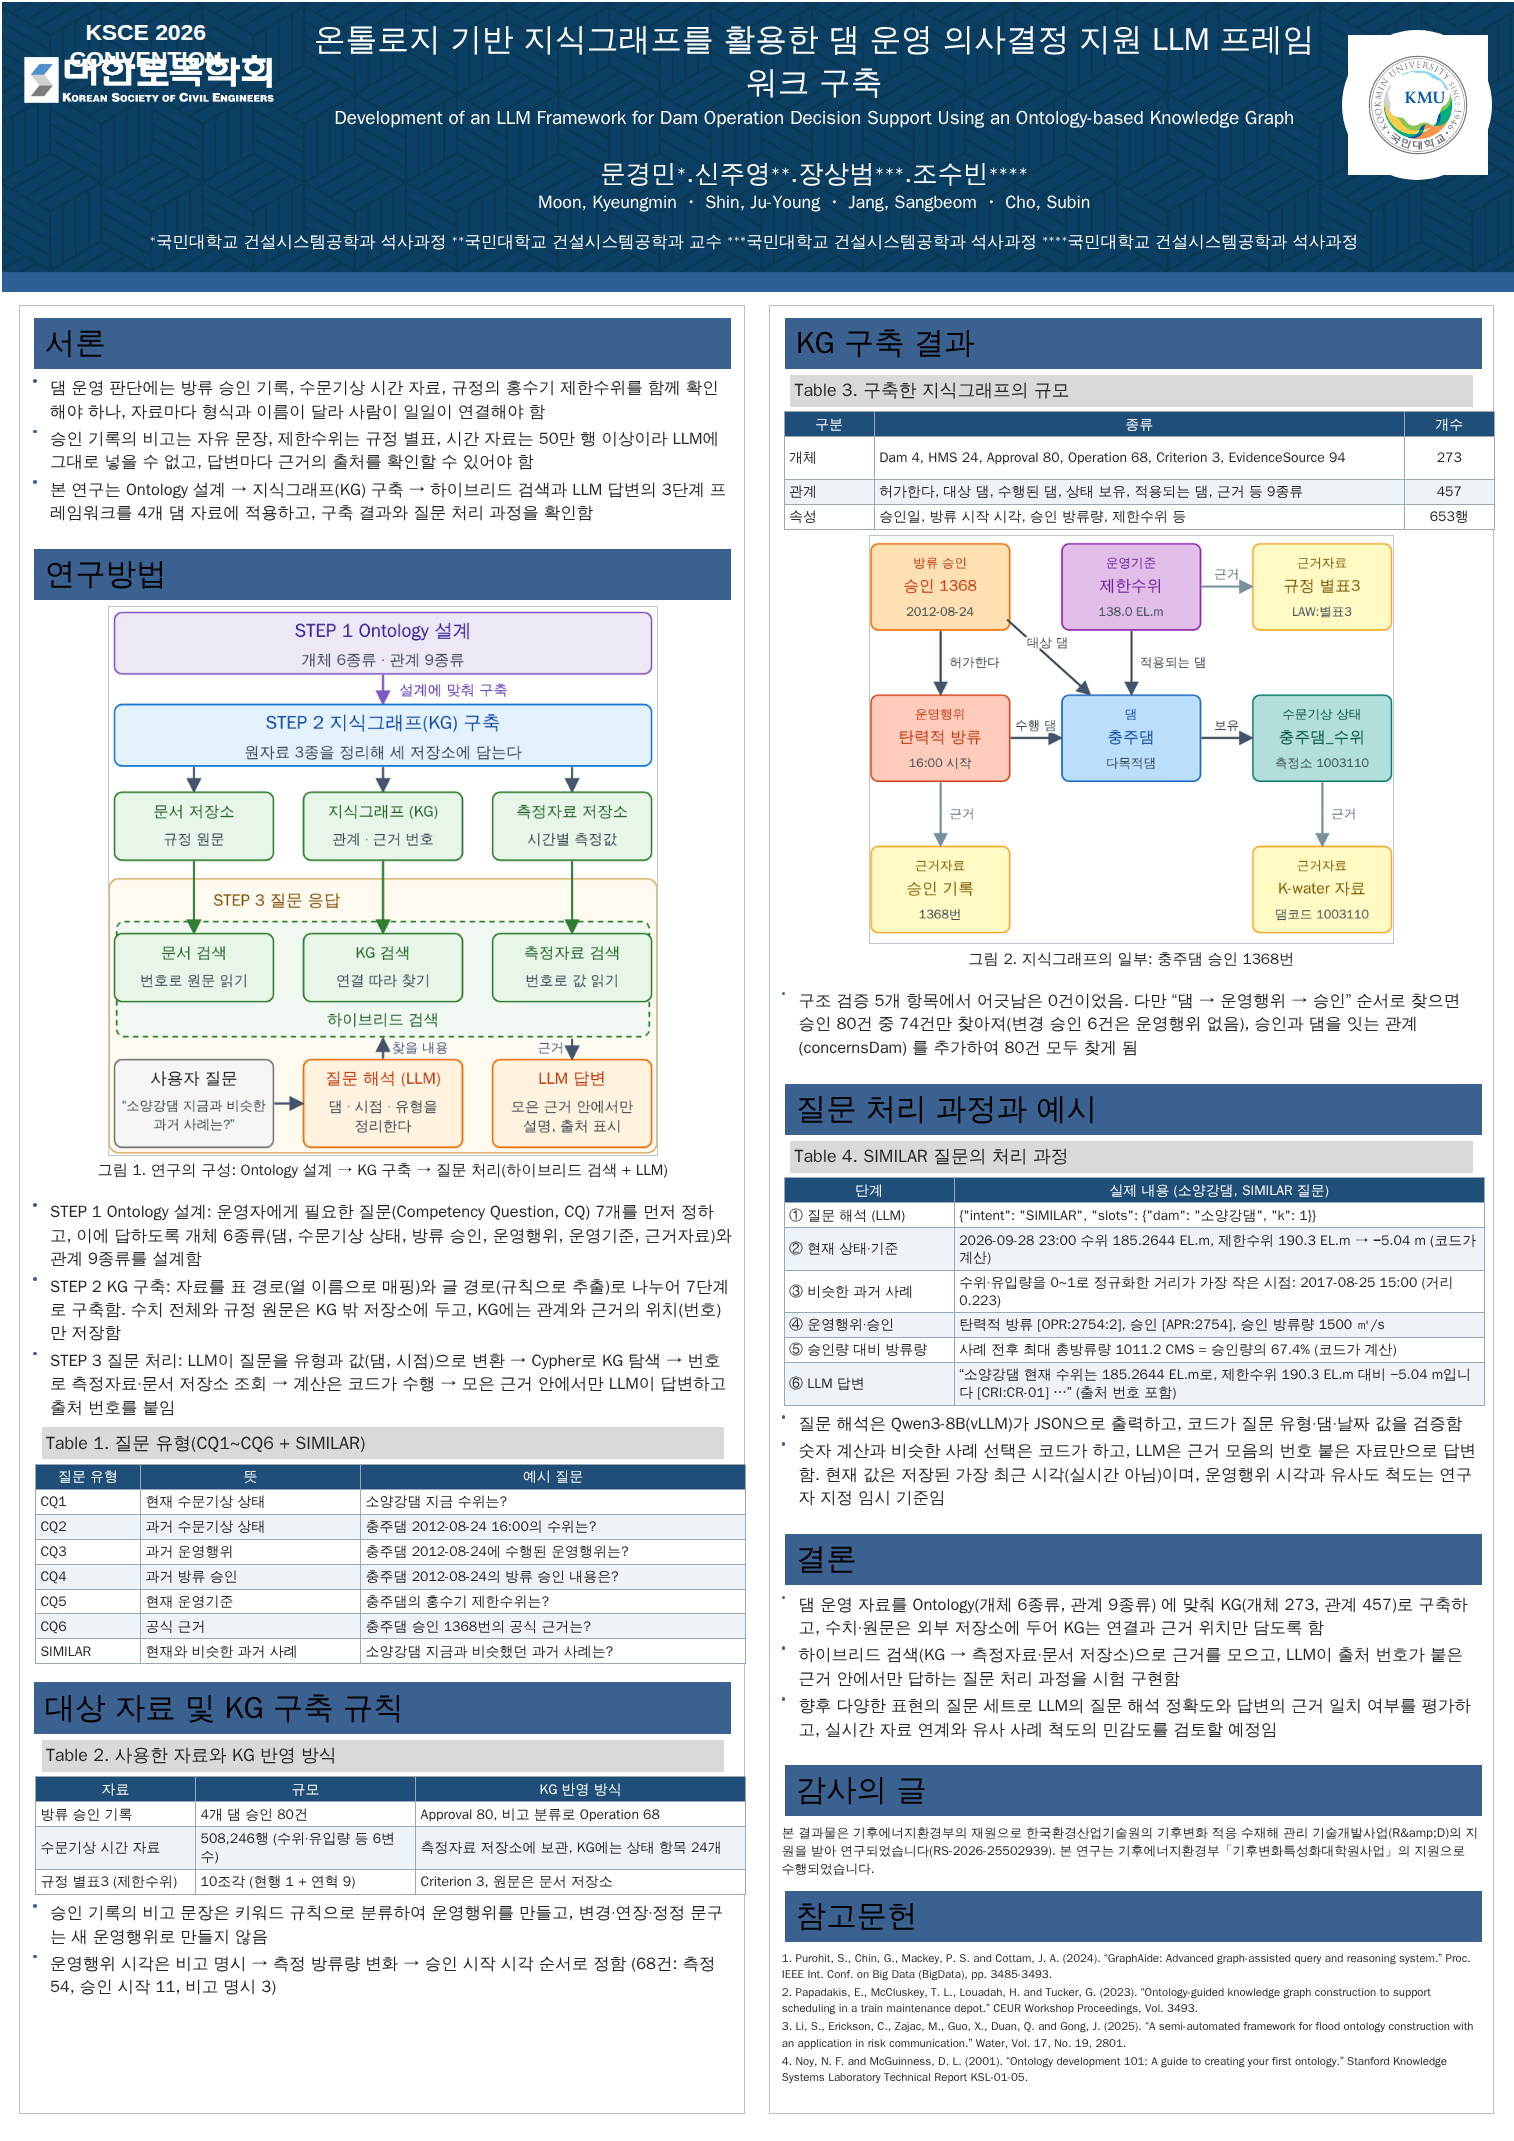
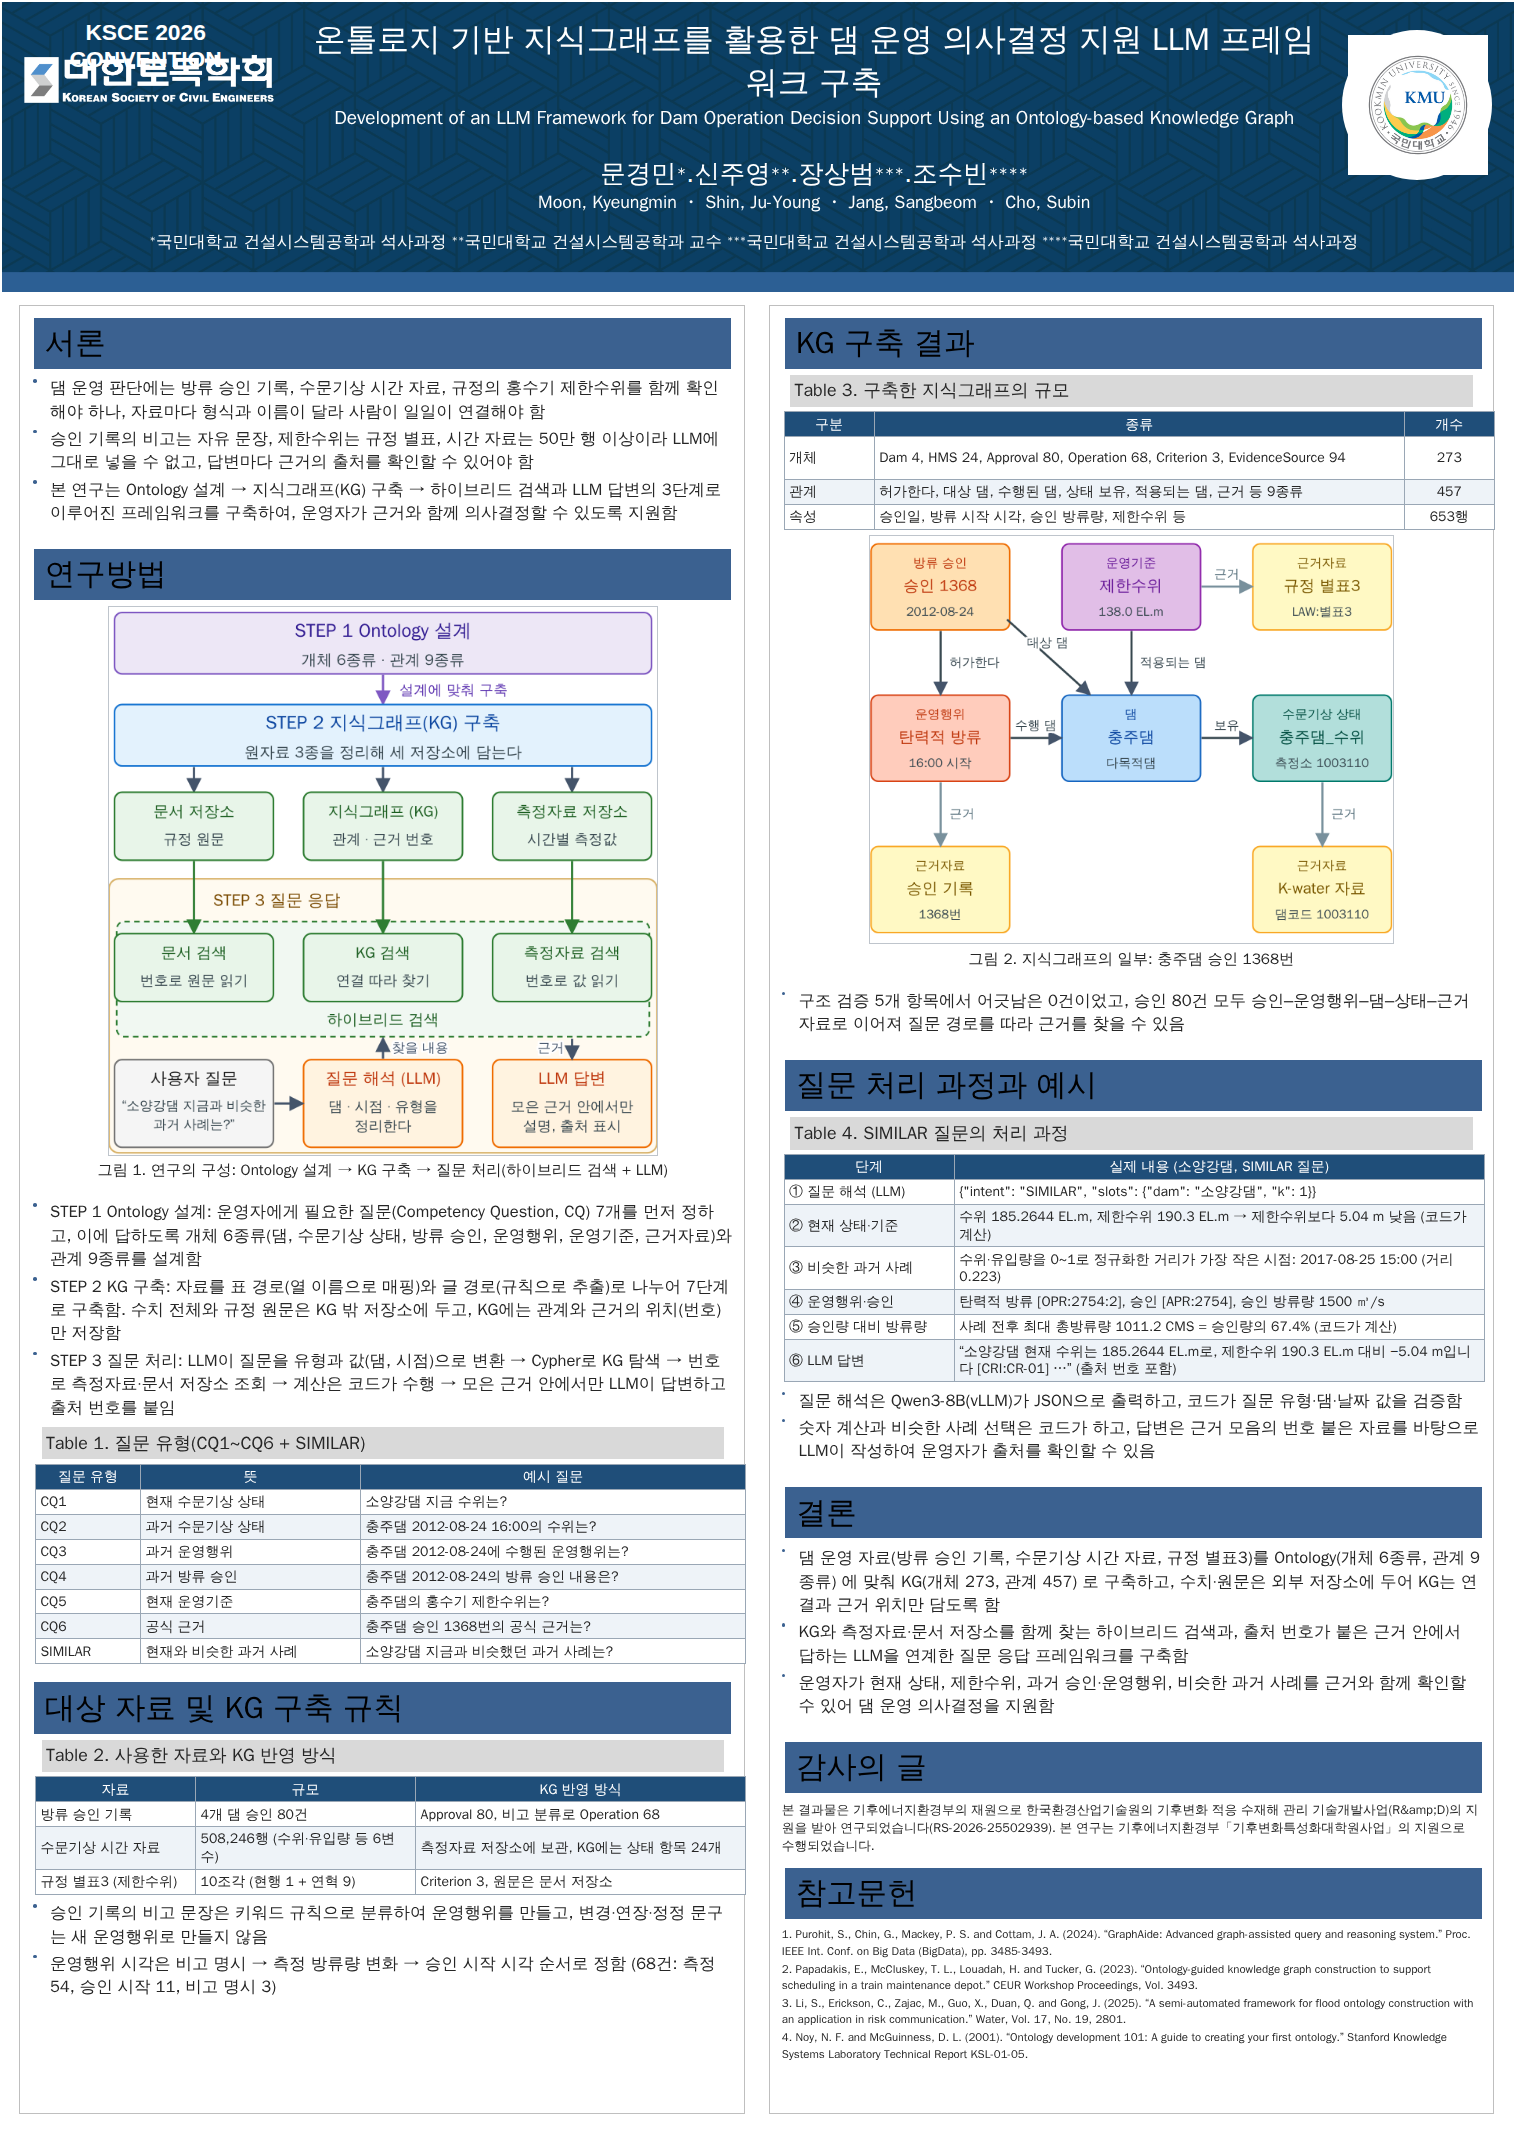
포스터: 한계·임시 기준 표현을 빼고 프레임워크 구축과 의사결정 지원 중심으로 수정
Claude-Session: https://claude.ai/code/session_015aebDX6SyyHMBBEAC3tkZT

Changed region(s): [[0.4967, 0.4624, 0.9934, 0.9865], [0.031, 0.2158, 0.4036, 0.2466]]

diff --git a/dam_pilot_data/scripts/build_poster.py b/dam_pilot_data/scripts/build_poster.py
@@ -168,7 +168,7 @@ AFFIL = [('*', '국민대학교 건설시스템공학과 석사과정'), ('**', 
 INTRO = [
     '댐 운영 판단에는 **방류 승인 기록**, **수문기상 시간 자료**, **규정의 홍수기 제한수위**를 함께 확인해야 하나, 자료마다 형식과 이름이 달라 사람이 일일이 연결해야 함',
     '승인 기록의 비고는 자유 문장, 제한수위는 규정 별표, 시간 자료는 50만 행 이상이라 **LLM에 그대로 넣을 수 없고**, 답변마다 **근거의 출처**를 확인할 수 있어야 함',
-    '본 연구는 **Ontology 설계 → 지식그래프(KG) 구축 → 하이브리드 검색과 LLM 답변**의 3단계 프레임워크를 4개 댐 자료에 적용하고, 구축 결과와 질문 처리 과정을 확인함',
+    '본 연구는 **Ontology 설계 → 지식그래프(KG) 구축 → 하이브리드 검색과 LLM 답변**의 3단계로 이루어진 프레임워크를 구축하여, 운영자가 **근거와 함께 의사결정**할 수 있도록 지원함',
 ]
 METHOD = [
     '**STEP 1 Ontology 설계**: 운영자에게 필요한 질문(Competency Question, CQ) 7개를 먼저 정하고, 이에 답하도록 **개체 6종류**(댐, 수문기상 상태, 방류 승인, 운영행위, 운영기준, 근거자료)와 **관계 9종류**를 설계함',
@@ -192,7 +192,7 @@ KG_ROWS = [
     ['속성', '승인일, 방류 시작 시각, 승인 방류량, 제한수위 등', '653행'],
 ]
 KG_BUL = [
-    '구조 검증 **5개 항목**에서 어긋남은 0건이었음. 다만 “댐 → 운영행위 → 승인” 순서로 찾으면 승인 80건 중 74건만 찾아져(변경 승인 6건은 운영행위 없음), **승인과 댐을 잇는 관계(concernsDam)** 를 추가하여 **80건 모두** 찾게 됨',
+    '구조 검증 **5개 항목**에서 어긋남은 0건이었고, 승인 80건 모두 **승인–운영행위–댐–상태–근거자료**로 이어져 질문 경로를 따라 근거를 찾을 수 있음',
 ]
 QT_ROWS = [
     ['질문 유형', '뜻', '예시 질문'],
@@ -207,7 +207,7 @@ QT_ROWS = [
 QA_ROWS = [
     ['단계', '실제 내용 (소양강댐, SIMILAR 질문)'],
     ['① 질문 해석 (LLM)', '{"intent": "SIMILAR", "slots": {"dam": "소양강댐", "k": 1}}'],
-    ['② 현재 상태·기준', '2026-09-28 23:00 수위 185.2644 EL.m, 제한수위 190.3 EL.m → **−5.04 m** (코드가 계산)'],
+    ['② 현재 상태·기준', '수위 185.2644 EL.m, 제한수위 190.3 EL.m → 제한수위보다 **5.04 m 낮음** (코드가 계산)'],
     ['③ 비슷한 과거 사례', '수위·유입량을 0~1로 정규화한 거리가 가장 작은 시점: **2017-08-25 15:00 (거리 0.223)**'],
     ['④ 운영행위·승인', '탄력적 방류 [OPR:2754:2], 승인 [APR:2754], 승인 방류량 1500 ㎥/s'],
     ['⑤ 승인량 대비 방류량', '사례 전후 최대 총방류량 1011.2 CMS = **승인량의 67.4%** (코드가 계산)'],
@@ -215,12 +215,12 @@ QA_ROWS = [
 ]
 QA_BUL = [
     '질문 해석은 **Qwen3-8B**(vLLM)가 JSON으로 출력하고, 코드가 질문 유형·댐·날짜 값을 검증함',
-    '숫자 계산과 비슷한 사례 선택은 **코드**가 하고, LLM은 **근거 모음**의 번호 붙은 자료만으로 답변함. 현재 값은 저장된 가장 최근 시각(실시간 아님)이며, 운영행위 시각과 유사도 척도는 연구자 지정 **임시 기준**임',
+    '숫자 계산과 비슷한 사례 선택은 **코드**가 하고, 답변은 **근거 모음**의 번호 붙은 자료를 바탕으로 **LLM**이 작성하여 운영자가 출처를 확인할 수 있음',
 ]
 CONCL = [
-    '댐 운영 자료를 **Ontology(개체 6종류, 관계 9종류)** 에 맞춰 KG(개체 273, 관계 457)로 구축하고, 수치·원문은 외부 저장소에 두어 **KG는 연결과 근거 위치만** 담도록 함',
-    '**하이브리드 검색**(KG → 측정자료·문서 저장소)으로 근거를 모으고, LLM이 **출처 번호가 붙은 근거 안에서만** 답하는 질문 처리 과정을 시험 구현함',
-    '향후 다양한 표현의 질문 세트로 LLM의 질문 해석 정확도와 답변의 근거 일치 여부를 평가하고, 실시간 자료 연계와 유사 사례 척도의 민감도를 검토할 예정임',
+    '댐 운영 자료(방류 승인 기록, 수문기상 시간 자료, 규정 별표3)를 **Ontology(개체 6종류, 관계 9종류)** 에 맞춰 **KG(개체 273, 관계 457)** 로 구축하고, 수치·원문은 외부 저장소에 두어 KG는 연결과 근거 위치만 담도록 함',
+    'KG와 측정자료·문서 저장소를 함께 찾는 **하이브리드 검색**과, 출처 번호가 붙은 근거 안에서 답하는 **LLM**을 연계한 **질문 응답 프레임워크**를 구축함',
+    '운영자가 현재 상태, 제한수위, 과거 승인·운영행위, 비슷한 과거 사례를 **근거와 함께** 확인할 수 있어 **댐 운영 의사결정을 지원**함',
 ]
 ACK = '본 결과물은 기후에너지환경부의 재원으로 한국환경산업기술원의 기후변화 적응 수재해 관리 기술개발사업(R&D)의 지원을 받아 연구되었습니다(RS-2026-25502939). 본 연구는 기후에너지환경부「기후변화특성화대학원사업」의 지원으로 수행되었습니다.'
 REFS = [
